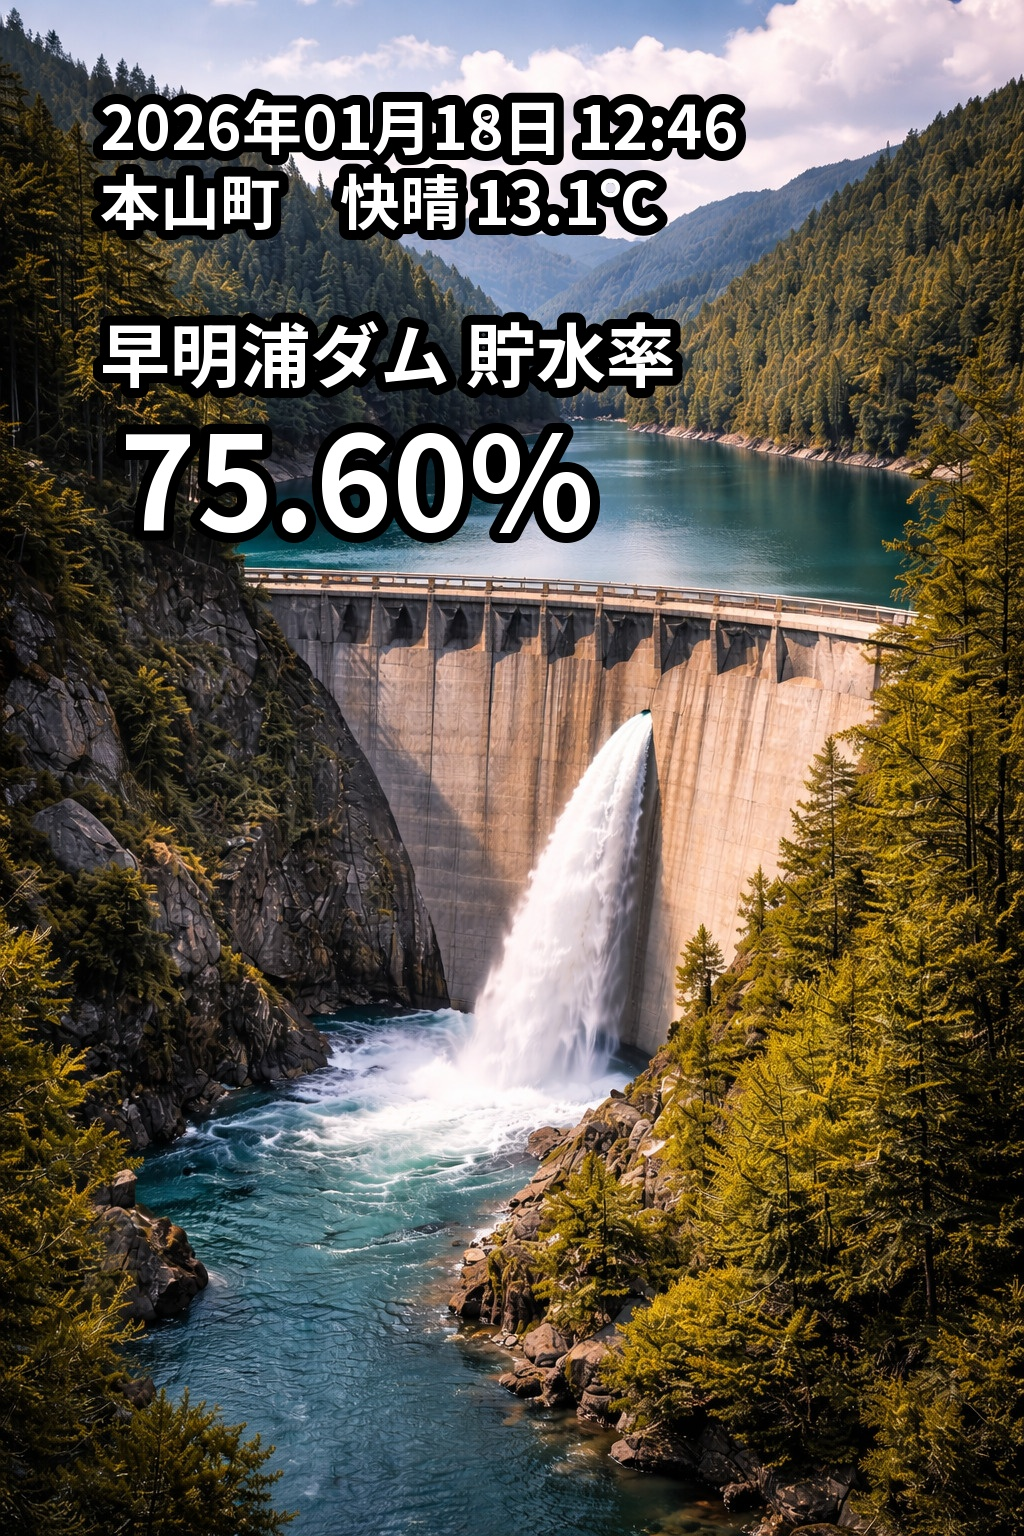
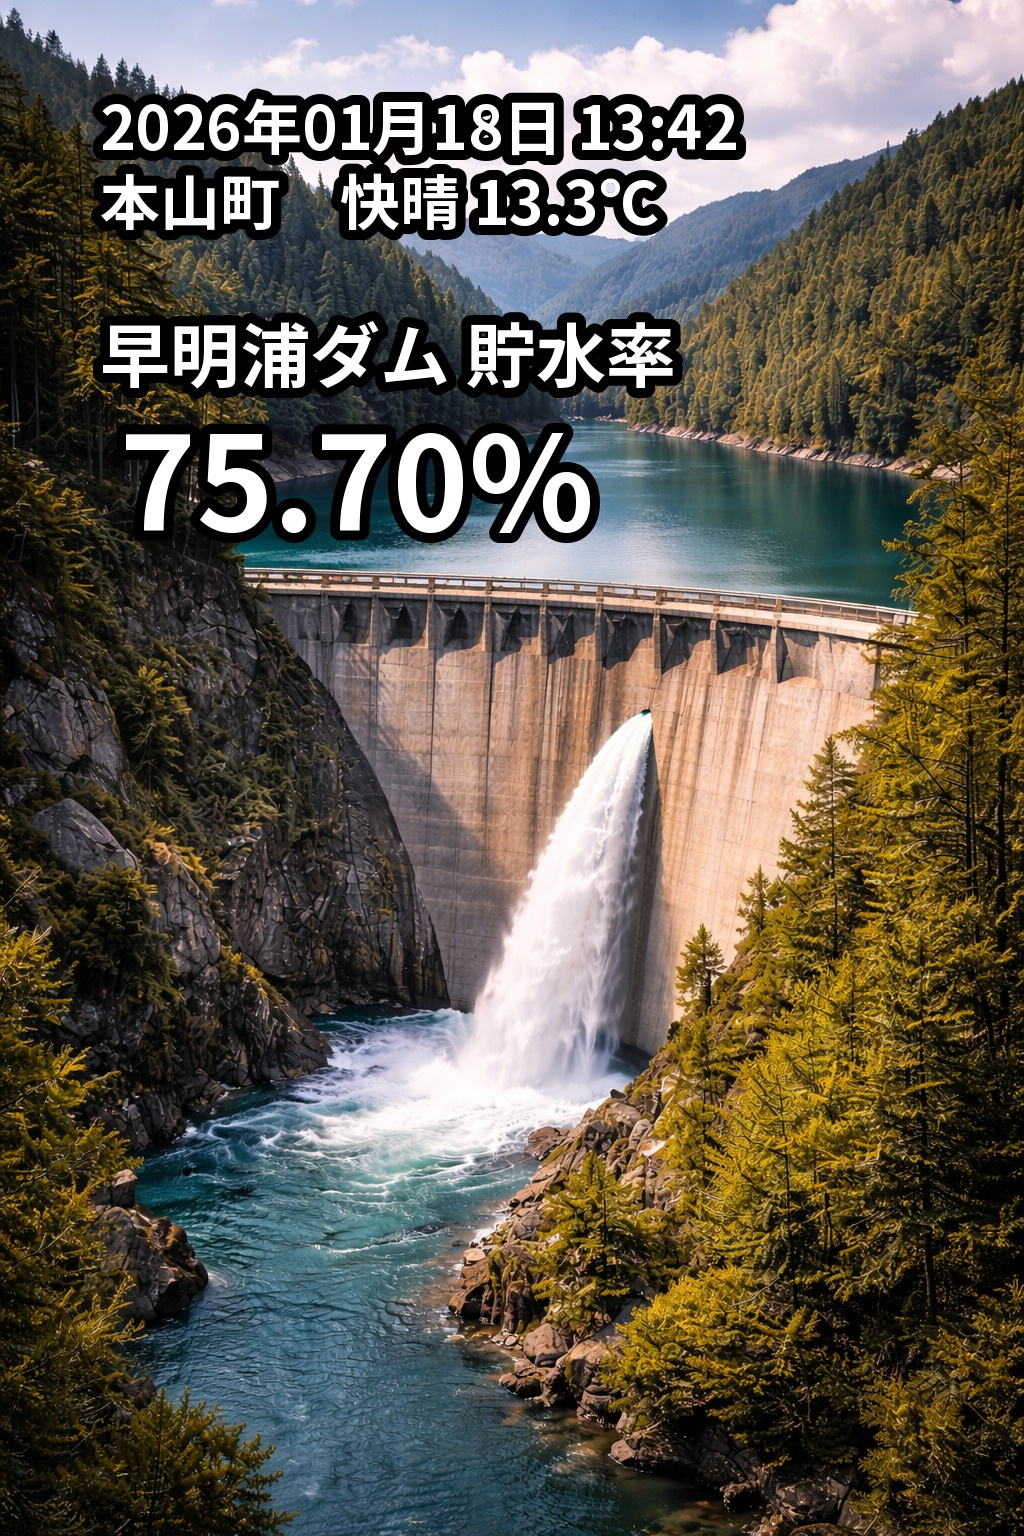
Update daily image

diff --git a/index.html b/index.html
@@ -10,6 +10,6 @@
   </style>
 </head>
 <body>
-  <img src="result.jpg?v=202601181246" alt="早明浦ダム 貯水率" />
+  <img src="result.jpg?v=202601181342" alt="早明浦ダム 貯水率" />
 </body>
 </html>
